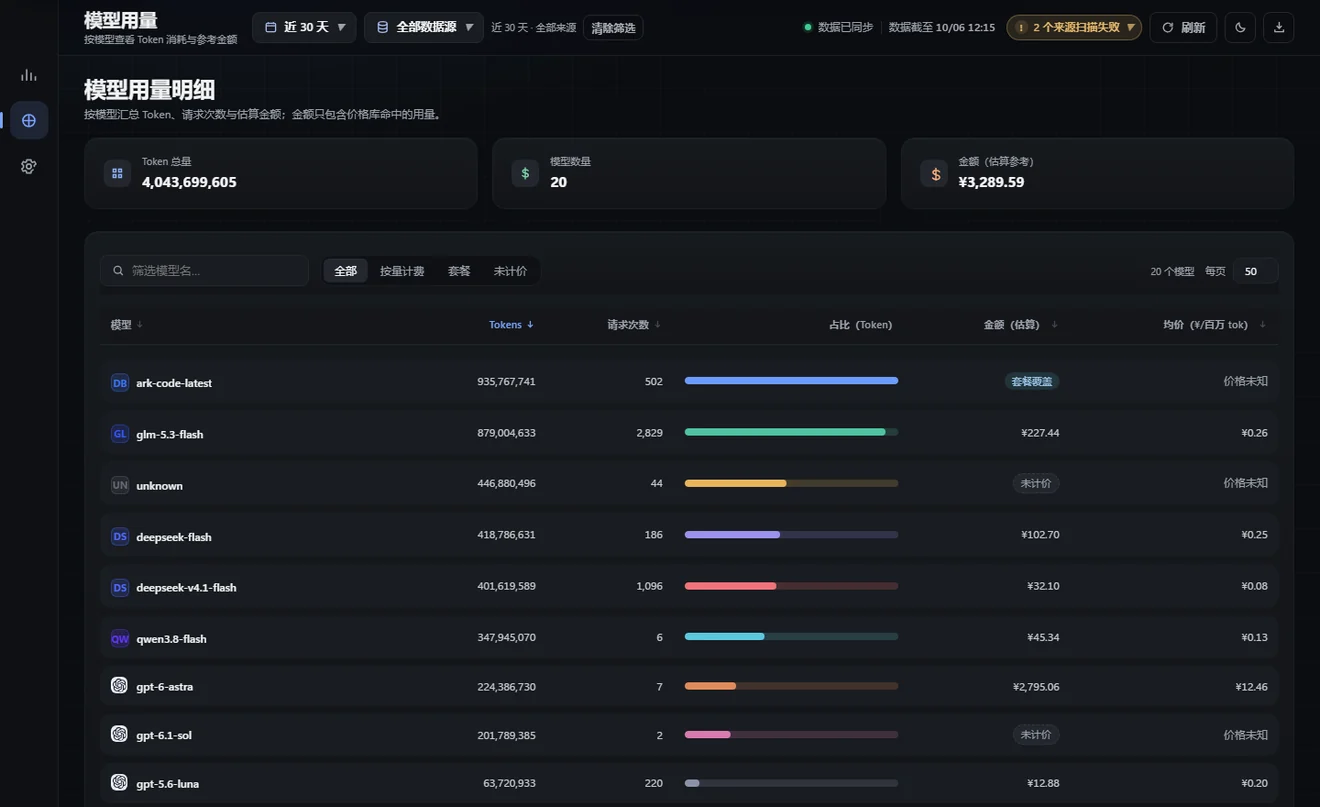
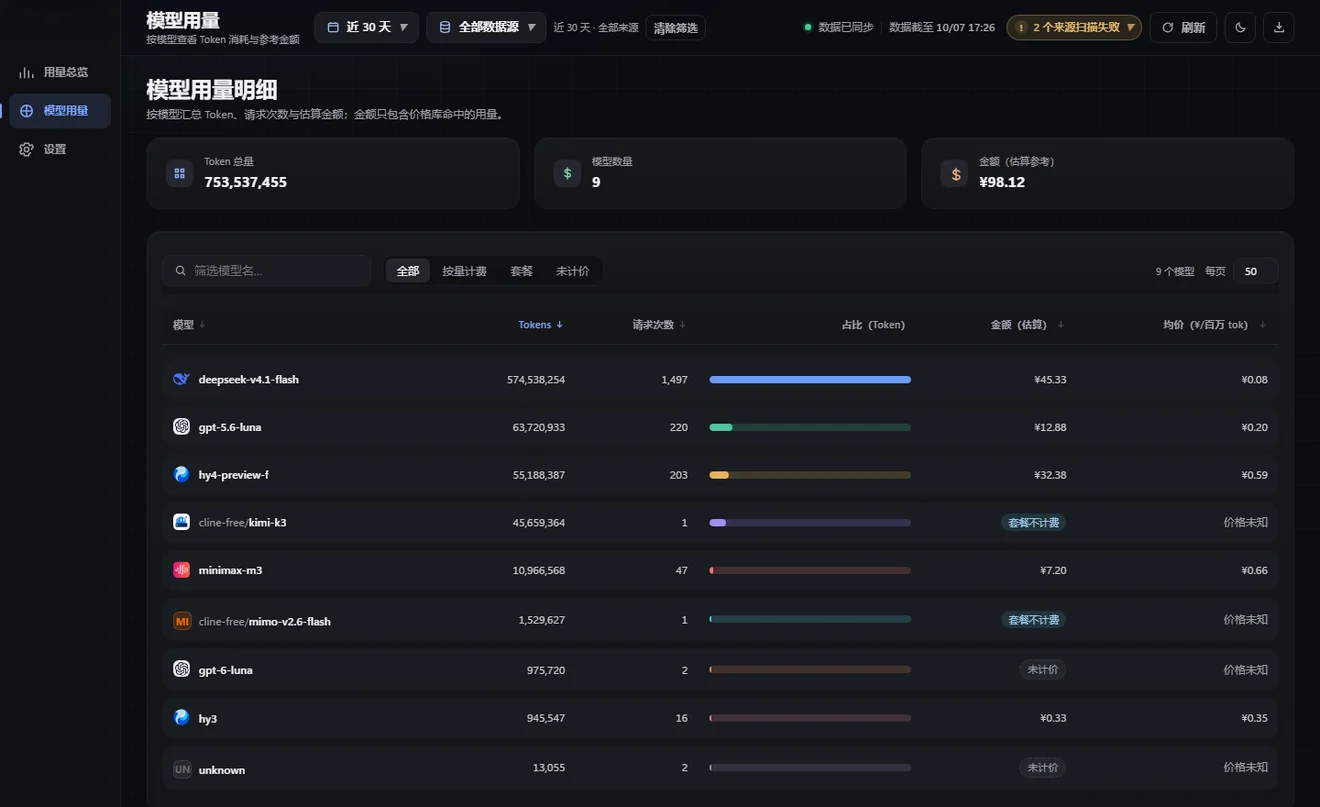
docs(page): 下载页同步 v2.1.2（真实截图重抓、Qoder 进覆盖表、术语与面板对齐）
流水线全量重跑：export_data（与面板同一条管道）→ capture_shots（起真实服务等
has_data 才截）→ build_assets → build。页面数字随之从 7.92 B / 21,675 次变成
13.78 B / 42,995 次，其中新增的 63.8 亿全部来自 Qoder CN，金额一分没变
（$1,884.17）—— 那批用量按订阅口径记为「套餐不计费」，没有编造 credits 单价。

- FALLBACK_VER → v2.1.2，FALLBACK_SIZE 按实测 32,422,517 B 改成"约 31 MB"。
- 补 qoder 的品牌图与显示名：agent-icons/qoder.png 取自软件同一批素材，
  DISPLAY 里写 "Qoder"（此前排行会露出小写 id，与侧栏写法不一致）。
- 三张界面截图换成带文字导航栏与身份块的新版本。

diff --git a/site/index.html b/site/index.html
@@ -347,7 +347,7 @@ footer .mono{font-family:var(--mono);font-variant-numeric:tabular-nums}
   <a class="lk sec" href="#cover">覆盖</a>
   <a class="lk sec" href="#faq">常见问题</a>
   <span class="sp"></span>
-  <span class="pill" id="verPill">v2.1.1</span>
+  <span class="pill" id="verPill">v2.1.2</span>
   <a class="lk" href="https://github.com/liixnglinb/token-monitor" target="_blank" rel="noopener">GitHub</a>
   <a class="btn-sm" href="#download">获取安装版</a>
 </div></nav>
@@ -360,12 +360,12 @@ footer .mono{font-family:var(--mono);font-variant-numeric:tabular-nums}
     <div class="cta rv">
       <a class="btn-main" id="dlMain" data-dl href="#download">
         <svg viewBox="0 0 24 24" fill="none" stroke="currentColor" stroke-width="2.2" stroke-linecap="round" stroke-linejoin="round" aria-hidden="true"><path d="M12 3.5v11.5M7 10l5 5 5-5M5 20.5h14"/></svg>
-        下载安装版<b id="verBtn">v2.1.1</b></a>
+        下载安装版<b id="verBtn">v2.1.2</b></a>
       <a class="btn-ghost" href="#shots">先看看界面</a>
     </div>
     <div class="chips rv">
       <span class="chip">64 位</span>
-      <span class="chip" id="chipSize">约 29 MB</span>
+      <span class="chip" id="chipSize">约 31 MB</span>
       <span class="chip">免管理员权限</span>
       <span class="chip">安装版 · 自动更新</span>
     </div>
@@ -378,29 +378,29 @@ footer .mono{font-family:var(--mono);font-variant-numeric:tabular-nums}
     </div>
     <div class="card bcell">
       <span class="bl">最近 30 个活跃日 · 日 Tokens</span>
-      <span class="bv num" id="sparkTot">7.22 B</span>
-      <svg class="spark" viewBox="0 0 620 88" width="620" height="88" aria-hidden="true"><defs><linearGradient id="sg" x1="0" y1="0" x2="0" y2="1"><stop offset="0" stop-color="#3B6FE0" stop-opacity=".22"/><stop offset="1" stop-color="#3B6FE0" stop-opacity="0"/></linearGradient></defs><path d="M10.0,75.8 L30.7,78.0 L51.4,78.0 L72.1,67.1 L92.8,74.3 L113.4,72.4 L134.1,78.0 L154.8,35.3 L175.5,10.0 L196.2,57.0 L216.9,42.9 L237.6,70.9 L258.3,75.5 L279.0,71.2 L299.7,42.3 L320.3,64.4 L341.0,78.0 L361.7,73.7 L382.4,51.2 L403.1,78.0 L423.8,78.0 L444.5,74.3 L465.2,35.4 L485.9,76.7 L506.6,68.6 L527.2,45.8 L547.9,52.8 L568.6,54.5 L589.3,68.0 L610.0,73.9 L610.0,78.0 L10.0,78.0 Z" fill="url(#sg)"/><path d="M10.0,75.8 L30.7,78.0 L51.4,78.0 L72.1,67.1 L92.8,74.3 L113.4,72.4 L134.1,78.0 L154.8,35.3 L175.5,10.0 L196.2,57.0 L216.9,42.9 L237.6,70.9 L258.3,75.5 L279.0,71.2 L299.7,42.3 L320.3,64.4 L341.0,78.0 L361.7,73.7 L382.4,51.2 L403.1,78.0 L423.8,78.0 L444.5,74.3 L465.2,35.4 L485.9,76.7 L506.6,68.6 L527.2,45.8 L547.9,52.8 L568.6,54.5 L589.3,68.0 L610.0,73.9" fill="none" stroke="#3B6FE0" stroke-width="1.8" stroke-linejoin="round" stroke-linecap="round"/><line x1="175.5" y1="10.0" x2="175.5" y2="78" stroke="rgba(194,102,31,.35)" stroke-width="1" stroke-dasharray="2 3"/><circle cx="175.5" cy="10.0" r="6.5" fill="#C2661F" opacity=".14"/><circle cx="175.5" cy="10.0" r="2.9" fill="#C2661F"/><circle cx="610.0" cy="73.9" r="2.9" fill="#3B6FE0"/></svg>
-      <div class="bfoot"><em>峰值 860.9 M · 09-01</em><span class="ln"></span><span>2026-06-02 → 2026-10-05</span></div>
+      <span class="bv num" id="sparkTot">13.78 B</span>
+      <svg class="spark" viewBox="0 0 620 88" width="620" height="88" aria-hidden="true"><defs><linearGradient id="sg" x1="0" y1="0" x2="0" y2="1"><stop offset="0" stop-color="#3B6FE0" stop-opacity=".22"/><stop offset="1" stop-color="#3B6FE0" stop-opacity="0"/></linearGradient></defs><path d="M10.0,78.0 L30.7,47.5 L51.4,29.4 L72.1,63.0 L92.8,52.9 L113.4,72.9 L134.1,76.2 L154.8,73.2 L175.5,52.5 L196.2,68.3 L216.9,78.0 L237.6,72.2 L258.3,25.1 L279.0,61.3 L299.7,66.4 L320.3,53.2 L341.0,63.0 L361.7,72.3 L382.4,56.7 L403.1,56.5 L423.8,10.0 L444.5,57.6 L465.2,71.3 L485.9,55.0 L506.6,60.0 L527.2,61.2 L547.9,58.6 L568.6,23.2 L589.3,14.9 L610.0,41.0 L610.0,78.0 L10.0,78.0 Z" fill="url(#sg)"/><path d="M10.0,78.0 L30.7,47.5 L51.4,29.4 L72.1,63.0 L92.8,52.9 L113.4,72.9 L134.1,76.2 L154.8,73.2 L175.5,52.5 L196.2,68.3 L216.9,78.0 L237.6,72.2 L258.3,25.1 L279.0,61.3 L299.7,66.4 L320.3,53.2 L341.0,63.0 L361.7,72.3 L382.4,56.7 L403.1,56.5 L423.8,10.0 L444.5,57.6 L465.2,71.3 L485.9,55.0 L506.6,60.0 L527.2,61.2 L547.9,58.6 L568.6,23.2 L589.3,14.9 L610.0,41.0" fill="none" stroke="#3B6FE0" stroke-width="1.8" stroke-linejoin="round" stroke-linecap="round"/><line x1="423.8" y1="10.0" x2="423.8" y2="78" stroke="rgba(194,102,31,.35)" stroke-width="1" stroke-dasharray="2 3"/><circle cx="423.8" cy="10.0" r="6.5" fill="#C2661F" opacity=".14"/><circle cx="423.8" cy="10.0" r="2.9" fill="#C2661F"/><circle cx="610.0" cy="41.0" r="2.9" fill="#3B6FE0"/></svg>
+      <div class="bfoot"><em>峰值 1.21 B · 09-27</em><span class="ln"></span><span>2026-06-02 → 2026-10-07</span></div>
     </div>
     <div class="card bcell">
       <span class="bl">缓存命中率</span>
-      <svg class="ring" viewBox="0 0 120 120" aria-hidden="true"><circle cx="60" cy="60" r="52" fill="none" stroke="rgba(16,24,40,.07)" stroke-width="9"/><circle class="val" cx="60" cy="60" r="52" fill="none" stroke="#1B8FA8" stroke-width="9" stroke-linecap="round" stroke-dasharray="326.7" stroke-dashoffset="326.7" style="--off:92.9" transform="rotate(-90 60 60)"/></svg>
+      <svg class="ring" viewBox="0 0 120 120" aria-hidden="true"><circle cx="60" cy="60" r="52" fill="none" stroke="rgba(16,24,40,.07)" stroke-width="9"/><circle class="val" cx="60" cy="60" r="52" fill="none" stroke="#1B8FA8" stroke-width="9" stroke-linecap="round" stroke-dasharray="326.7" stroke-dashoffset="326.7" style="--off:187.7" transform="rotate(-90 60 60)"/></svg>
       <div class="blist">
         <div><span>覆盖数据源</span><b>12 / 81</b></div>
-        <div><span>计价模型</span><b>44</b></div>
-        <div><span>活跃天数</span><b>65</b></div>
+        <div><span>计价模型</span><b>49</b></div>
+        <div><span>活跃天数</span><b>71</b></div>
       </div>
     </div>
   </div>
 </div></header>
 
 <section class="mrow"><div class="wrap" style="padding:0 36px">
-  <div class="mt t-token"><span class="lab">Tokens</span><span class="v" data-to="7.2195" data-dec="2" data-suf=" B">7.22 B</span><span class="msub">其中套餐内 2.77 B</span></div><div class="mt t-cost"><span class="lab">消耗金额</span><span class="v" data-to="13349.72" data-dec="0" data-pre="&#165;">¥13,350</span><span class="msub">$1,880 · 汇率 7.1</span></div><div class="mt t-req"><span class="lab">API 请求次数</span><span class="v" data-to="19953" data-dec="0">19,953</span><span class="msub">本机 12 个数据源</span></div><div class="mt t-cache"><span class="lab">缓存命中率</span><span class="v" data-to="71.56" data-dec="1" data-suf="%">71.6%</span><span class="msub">缓存读取 ÷（基础输入 + 缓存写入 + 缓存读取）</span></div>
-</div><div class="wrap"><p class="mcap"><span>作者本机日志实测 · 2026-06-02 → 2026-10-05</span><span class="ln"></span><span>与软件面板同一导出管道（export_data.py）</span></p></div></section>
+  <div class="mt t-token"><span class="lab">Tokens</span><span class="v" data-to="13.7822" data-dec="2" data-suf=" B">13.78 B</span><span class="msub">其中套餐内 9.16 B</span></div><div class="mt t-cost"><span class="lab">消耗金额</span><span class="v" data-to="13377.58" data-dec="0" data-pre="&#165;">¥13,378</span><span class="msub">$1,884 · 汇率 7.1</span></div><div class="mt t-req"><span class="lab">API 请求次数</span><span class="v" data-to="42995" data-dec="0">42,995</span><span class="msub">本机 12 个数据源</span></div><div class="mt t-cache"><span class="lab">缓存命中率</span><span class="v" data-to="42.54" data-dec="1" data-suf="%">42.5%</span><span class="msub">缓存读取 ÷（基础输入 + 缓存写入 + 缓存读取）</span></div>
+</div><div class="wrap"><p class="mcap"><span>作者本机日志实测 · 2026-06-02 → 2026-10-07</span><span class="ln"></span><span>与软件面板同一导出管道（export_data.py）</span></p></div></section>
 
 <section id="shots" class="rv"><div class="wrap">
   <div class="shead"><span class="no">01</span><h2>界面</h2><span class="sp"></span>
-    <span class="note">真实窗口截图 · v2.1.1</span></div>
+    <span class="note">真实窗口截图 · v2.1.2</span></div>
   <p class="sec-sub">三块视图覆盖「花了多少」「花在哪」「为什么这么算」：总览看趋势与逐日明细，模型成本看每个模型的均价与占比，扫描与缓存页把套餐、未计价和过滤掉的部分单独交代。</p>
   <div class="gal">
     <div class="card gcard">
@@ -422,14 +422,14 @@ footer .mono{font-family:var(--mono);font-variant-numeric:tabular-nums}
 
 <section id="download" class="rv"><div class="wrap">
   <div class="shead"><span class="no">02</span><h2>下载</h2><span class="sp"></span>
-    <span class="note" id="dlVer">v2.1.1</span></div>
+    <span class="note" id="dlVer">v2.1.2</span></div>
   <div class="card dlcard">
     <div class="dl-row" data-dl id="dlRow">
       <span class="nm">Token Monitor 安装版<i class="tag">推荐</i></span>
       <span class="ext">.exe</span>
-      <span class="fn" id="fileName">TokenMonitor-setup-v2.1.1.exe</span>
+      <span class="fn" id="fileName">TokenMonitor-setup-v2.1.2.exe</span>
       <span class="sp"></span>
-      <span class="meta" id="dlMeta">约 29 MB · v2.1.1</span>
+      <span class="meta" id="dlMeta">约 31 MB · v2.1.2</span>
       <span class="go"><svg viewBox="0 0 24 24" width="15" height="15" fill="none" stroke="currentColor" stroke-width="2.2" stroke-linecap="round" stroke-linejoin="round" aria-hidden="true"><path d="M9 5.5l6.5 6.5L9 18.5"/></svg></span>
     </div>
 
@@ -469,18 +469,18 @@ footer .mono{font-family:var(--mono);font-variant-numeric:tabular-nums}
 <section id="how" class="rv"><div class="wrap">
   <div class="shead"><span class="no">03</span><h2>工作原理</h2><span class="sp"></span>
     <span class="note">四步 · 全程只读</span></div>
-  <ul class="steps"><li class="step"><span class="sn">01</span><div><b>发现</b><p>按注册表登记的 81 个已知工具（共 153 条候选路径）逐个探测本机日志目录，认不出的文件不猜、不计。</p></div></li><li class="step"><span class="sn">02</span><div><b>解析</b><p>只取用量字段：模型、输入 / 输出 / 缓存读取与写入、时间。不保存对话原文。</p></div></li><li class="step"><span class="sn">03</span><div><b>计价</b><p>内置模型价目表（可用 custom-pricing.json 覆盖），按每条记录自己的模型单价折算金额。</p></div></li><li class="step"><span class="sn">04</span><div><b>呈现</b><p>增量缓存（本次命中 11 / 重扫 5 / 零结果判定 12），面板只读快照，滚动筛选不动磁盘。</p></div></li></ul>
+  <ul class="steps"><li class="step"><span class="sn">01</span><div><b>发现</b><p>按注册表登记的 81 个已知工具（共 153 条候选路径）逐个探测本机日志目录，认不出的文件不猜、不计。</p></div></li><li class="step"><span class="sn">02</span><div><b>解析</b><p>只取用量字段：模型、输入 / 输出 / 缓存读取与写入、时间。不保存对话原文。</p></div></li><li class="step"><span class="sn">03</span><div><b>计价</b><p>内置模型价目表（可用 custom-pricing.json 覆盖），按每条记录自己的模型单价折算金额。</p></div></li><li class="step"><span class="sn">04</span><div><b>呈现</b><p>增量缓存（本次命中 4 / 重扫 12 / 零结果判定 12），面板只读快照，滚动筛选不动磁盘。</p></div></li></ul>
 </div></section>
 
 <section id="cover" class="rv"><div class="wrap">
   <div class="shead"><span class="no">04</span><h2>数据源覆盖</h2><span class="sp"></span>
-    <span class="note">本机实测：12 个已计入 / 14 个未计入</span></div>
+    <span class="note">本机实测：12 个已计入 / 16 个未计入</span></div>
   <p class="sec-sub">能读到本地用量日志的工具会被计入并显示真实用量；读不到的不静默丢弃——按原因列在下面，也会出现在面板侧栏的「未计入」分组里。</p>
   <div class="card panel">
     <div class="srchead"><span class="a">已计入的数据源</span><span class="a">Tokens 占比</span><span class="b">Tokens</span><span class="c">金额（CNY）</span></div>
-    <ul><li class="src"><span class="nm"><img class="ico-img" src="/token-monitor/agent-icons/codex.png" width="18" height="18" alt="" loading="lazy"><span>Codex</span></span><span class="track"><i style="width:100.0%"></i></span><span class="tk">1.85 B</span><span class="cq">¥2,942</span></li><li class="src"><span class="nm"><span class="ico-mono" style="--mc:#7C8CF8">B</span><span>Box Agent</span></span><span class="track"><i style="width:87.4%"></i></span><span class="tk">1.62 B</span><span class="cq">套餐不计费</span></li><li class="src"><span class="nm"><img class="ico-img" src="/token-monitor/agent-icons/zcode.png" width="18" height="18" alt="" loading="lazy"><span>ZCode</span></span><span class="track"><i style="width:62.6%"></i></span><span class="tk">1.16 B</span><span class="cq">¥235</span></li><li class="src"><span class="nm"><img class="ico-img" src="/token-monitor/agent-icons/workbuddy-ai.png" width="18" height="18" alt="" loading="lazy"><span>WorkBuddy AI</span></span><span class="track"><i style="width:54.6%"></i></span><span class="tk">1.01 B</span><span class="cq">¥3,976</span></li><li class="src"><span class="nm"><img class="ico-img" src="/token-monitor/agent-icons/claude-code.svg" width="18" height="18" alt="" loading="lazy"><span>Claude Code</span></span><span class="track"><i style="width:37.7%"></i></span><span class="tk">696.9 M</span><span class="cq">¥4,703</span></li><li class="src"><span class="nm"><img class="ico-img" src="/token-monitor/agent-icons/hermes.png" width="18" height="18" alt="" loading="lazy"><span>Hermes</span></span><span class="track"><i style="width:22.6%"></i></span><span class="tk">418.2 M</span><span class="cq">未计价</span></li><li class="src"><span class="nm"><img class="ico-img" src="/token-monitor/agent-icons/opencode.svg" width="18" height="18" alt="" loading="lazy"><span>OpenCode</span></span><span class="track"><i style="width:16.6%"></i></span><span class="tk">307.2 M</span><span class="cq">¥1,380</span></li><li class="src"><span class="nm"><span class="ico-mono" style="--mc:#4AC08A">MH</span><span>MHAgent</span></span><span class="track"><i style="width:4.3%"></i></span><span class="tk">79.3 M</span><span class="cq">¥111</span></li><li class="src"><span class="nm"><img class="ico-img" src="/token-monitor/agent-icons/cline.svg" width="18" height="18" alt="" loading="lazy"><span>Cline</span></span><span class="track"><i style="width:2.6%"></i></span><span class="tk">47.2 M</span><span class="cq">套餐不计费</span></li><li class="src"><span class="nm"><img class="ico-img" src="/token-monitor/agent-icons/dsh.png" width="18" height="18" alt="" loading="lazy"><span>DSH</span></span><span class="track"><i style="width:1.6%"></i></span><span class="tk">28.7 M</span><span class="cq">未计价</span></li><li class="src"><span class="nm"><span class="ico-mono" style="--mc:#A78BFA">A</span><span>Agnes</span></span><span class="track"><i style="width:1.6%"></i></span><span class="tk">6.7 M</span><span class="cq">套餐不计费</span></li><li class="src"><span class="nm"><span class="ico-mono" style="--mc:#E8B45B">M</span><span>Mavis</span></span><span class="track"><i style="width:1.6%"></i></span><span class="tk">896 k</span><span class="cq">¥2.60</span></li></ul>
-    <div class="srchead" style="margin-top:16px"><span class="a">未计入（14）</span><span class="a">原因</span></div>
-    <ul class="covlist"><li class="cov"><span class="cs">13 个</span><span class="cn">WorkBuddy、美团 CatPaw、Cherry Studio、GitHub Copilot Chat、GitHub Copilot CLI、字节 豆包、闲鱼 CLI、Mimosa、OpenViking、阿里 通义千问 CLI、RaccoonWork、字节 TRAE SOLO（可读）、腾讯元宝</span><span class="cd">本机无可用用量</span></li><li class="cov"><span class="cs">1 个</span><span class="cn">字节 TRAE</span><span class="cd">本地不记录用量（已加密或需官方 API）</span></li></ul>
+    <ul><li class="src"><span class="nm"><img class="ico-img" src="/token-monitor/agent-icons/qoder.png" width="18" height="18" alt="" loading="lazy"><span>Qoder</span></span><span class="track"><i style="width:100.0%"></i></span><span class="tk">6.39 B</span><span class="cq">套餐不计费</span></li><li class="src"><span class="nm"><img class="ico-img" src="/token-monitor/agent-icons/codex.png" width="18" height="18" alt="" loading="lazy"><span>Codex</span></span><span class="track"><i style="width:28.9%"></i></span><span class="tk">1.85 B</span><span class="cq">¥2,942</span></li><li class="src"><span class="nm"><span class="ico-mono" style="--mc:#7C8CF8">B</span><span>Box Agent</span></span><span class="track"><i style="width:25.3%"></i></span><span class="tk">1.62 B</span><span class="cq">套餐不计费</span></li><li class="src"><span class="nm"><img class="ico-img" src="/token-monitor/agent-icons/workbuddy-ai.png" width="18" height="18" alt="" loading="lazy"><span>WorkBuddy AI</span></span><span class="track"><i style="width:18.9%"></i></span><span class="tk">1.21 B</span><span class="cq">¥4,004</span></li><li class="src"><span class="nm"><img class="ico-img" src="/token-monitor/agent-icons/zcode.png" width="18" height="18" alt="" loading="lazy"><span>ZCode</span></span><span class="track"><i style="width:18.1%"></i></span><span class="tk">1.16 B</span><span class="cq">¥235</span></li><li class="src"><span class="nm"><img class="ico-img" src="/token-monitor/agent-icons/claude-code.svg" width="18" height="18" alt="" loading="lazy"><span>Claude Code</span></span><span class="track"><i style="width:10.9%"></i></span><span class="tk">696.9 M</span><span class="cq">¥4,703</span></li><li class="src"><span class="nm"><img class="ico-img" src="/token-monitor/agent-icons/hermes.png" width="18" height="18" alt="" loading="lazy"><span>Hermes</span></span><span class="track"><i style="width:6.5%"></i></span><span class="tk">418.2 M</span><span class="cq">未计价</span></li><li class="src"><span class="nm"><img class="ico-img" src="/token-monitor/agent-icons/opencode.svg" width="18" height="18" alt="" loading="lazy"><span>OpenCode</span></span><span class="track"><i style="width:4.8%"></i></span><span class="tk">307.2 M</span><span class="cq">¥1,380</span></li><li class="src"><span class="nm"><span class="ico-mono" style="--mc:#4AC08A">MH</span><span>MHAgent</span></span><span class="track"><i style="width:1.6%"></i></span><span class="tk">79.3 M</span><span class="cq">¥111</span></li><li class="src"><span class="nm"><img class="ico-img" src="/token-monitor/agent-icons/cline.svg" width="18" height="18" alt="" loading="lazy"><span>Cline</span></span><span class="track"><i style="width:1.6%"></i></span><span class="tk">47.2 M</span><span class="cq">套餐不计费</span></li><li class="src"><span class="nm"><span class="ico-mono" style="--mc:#A78BFA">A</span><span>Agnes</span></span><span class="track"><i style="width:1.6%"></i></span><span class="tk">6.7 M</span><span class="cq">套餐不计费</span></li><li class="src"><span class="nm"><span class="ico-mono" style="--mc:#E8B45B">M</span><span>Mavis</span></span><span class="track"><i style="width:1.6%"></i></span><span class="tk">896 k</span><span class="cq">¥2.60</span></li></ul>
+    <div class="srchead" style="margin-top:16px"><span class="a">未计入（16）</span><span class="a">原因</span></div>
+    <ul class="covlist"><li class="cov"><span class="cs">15 个</span><span class="cn">DSH、WorkBuddy、美团 CatPaw、Cherry Studio、GitHub Copilot Chat、GitHub Copilot CLI、字节 豆包、闲鱼 CLI、月之暗面 Kimi、Mimosa、OpenViking、阿里 通义千问 CLI、RaccoonWork、字节 TRAE SOLO（可读）、腾讯元宝</span><span class="cd">本机无可用用量</span></li><li class="cov"><span class="cs">1 个</span><span class="cn">字节 TRAE</span><span class="cd">本地不记录用量（已加密或需官方 API）</span></li></ul>
   </div>
 </div></section>
 
@@ -512,9 +512,9 @@ footer .mono{font-family:var(--mono);font-variant-numeric:tabular-nums}
     <span class="note">页面数字与面板一致</span></div>
   <div class="specs">
     <div class="spec"><b>金额主显人民币</b><p>按 <code>cost_usd × 7.1</code> 折算，副行给出美元与汇率，与面板 KPI 完全一致。</p></div>
-    <div class="spec"><b>套餐不计费</b><p>订阅制模型只记用量不计金额，本机为 2.77 B tokens；面板里同样标注「套餐不计费」。</p></div>
-    <div class="spec"><b>未计价</b><p>模型不在价目表内时，用量照记、金额留空——本机 658.2 M tokens（占 9.1%），实际成本会更高。</p></div>
-    <div class="spec"><b>缓存命中率</b><p>缓存读取 ÷（基础输入 + 缓存写入 + 缓存读取），口径与面板五态同名；本机 71.6%。</p></div>
+    <div class="spec"><b>套餐不计费</b><p>订阅制模型只记用量不计金额，本机为 9.16 B tokens；面板里同样标注「套餐不计费」。</p></div>
+    <div class="spec"><b>未计价</b><p>模型不在价目表内时，用量照记、金额留空——本机 629.5 M tokens（占 4.6%），实际成本会更高。</p></div>
+    <div class="spec"><b>缓存命中率</b><p>缓存读取 ÷（基础输入 + 缓存写入 + 缓存读取），口径与面板五态同名；本机 42.5%。</p></div>
   </div>
 </div></section>
 
@@ -528,7 +528,7 @@ footer .mono{font-family:var(--mono);font-variant-numeric:tabular-nums}
   <span class="sp"></span>
   <a href="https://github.com/liixnglinb/token-monitor" target="_blank" rel="noopener">源码仓库</a>
   <a href="https://github.com/liixnglinb/token-monitor/releases" target="_blank" rel="noopener">全部版本</a>
-  <span class="mono" id="footVer">v2.1.1 · 81 个已知数据源</span>
+  <span class="mono" id="footVer">v2.1.2 · 81 个已知数据源</span>
 </div></footer>
 
 <script src="./app-1.js"></script>

diff --git a/site/app-1.js b/site/app-1.js
@@ -145,7 +145,7 @@ function loadAsset(){
       }
       if (!setup || !setup.url) return;
       state.asset = setup;
-      var mb = setup.size > 0 ? '约 ' + Math.round(setup.size / 1048576) + ' MB' : '约 29 MB';
+      var mb = setup.size > 0 ? '约 ' + Math.round(setup.size / 1048576) + ' MB' : '约 31 MB';
       setTxt('verPill', 'v' + ver);
       setTxt('verBtn', 'v' + ver);
       setTxt('fileName', setup.name);

diff --git a/dist-page/build.py b/dist-page/build.py
@@ -44,8 +44,8 @@ try:
     print("注册表实测: %d 个数据源 / %d 条路径" % (NREG, NPATHS))
 except Exception as e:
     print("!! 读不到 sources_registry，用兜底值 %d/%d：%s" % (NREG, NPATHS, e))
-FALLBACK_VER = "v2.1.1"
-FALLBACK_SIZE = "约 29 MB"
+FALLBACK_VER = "v2.1.2"
+FALLBACK_SIZE = "约 31 MB"    # 2026-10-07 v2.1.2 实测 32,422,517 B
 CNY_RATE = 7.1     # server.py: CNY_RATE，页面与面板同一汇率
 
 # 源 id → 显示名（与 App 内 AGENT_NAME 保持一致）
@@ -55,12 +55,14 @@ DISPLAY = {
     "openclaw-autoclaw": "OpenClaw", "agnes": "Agnes", "dsh": "DSH",
     "cline": "Cline", "box-agent": "Box Agent", "mavis": "Mavis",
     "workbuddy": "WorkBuddy", "workbuddy-ai": "WorkBuddy AI",
+    "qoder": "Qoder",     # 与 core.js AGENT_NAME["qoder"] 同一写法（页面曾显示成小写 id）
 }
 # 图标映射/字母徽标：与 webapp/static/js/core.js 的 AGENT_LOGOS / AGENT_MONO 一一对应
 ICON_FILES = {
     "codex": "codex.png", "claude-code": "claude-code.svg", "opencode": "opencode.svg",
     "cline": "cline.svg", "zcode": "zcode.png", "hermes": "hermes.png",
     "workbuddy": "workbuddy.png", "workbuddy-ai": "workbuddy-ai.png", "dsh": "dsh.png",
+    "qoder": "qoder.png",
 }
 MONO = {
     "box-agent": ("B", "#7C8CF8"), "mhagent": ("MH", "#4AC08A"),

diff --git a/dist-page/build_assets.py b/dist-page/build_assets.py
@@ -29,6 +29,8 @@ ICONS = {
     "codex": "codex.png", "claude-code": "claude.svg", "opencode": "opencode.svg",
     "cline": "cline.svg", "zcode": "zcode.png", "hermes": "hermes.png",
     "workbuddy-ai": "workbuddy.png", "dsh": "dsh.png",
+    # 2026-10-07：Qoder CN 第一次有真实用量，页面排行会露出它 → 与 App 同一张官方标
+    "qoder": "qoder.png",
 }
 ICON_SIZE = 64          # 排行行内显示 18px，64 足够 2x/3x 屏
 SHOT_W = 1320           # 导览图统一宽度，高度按裁切结果
